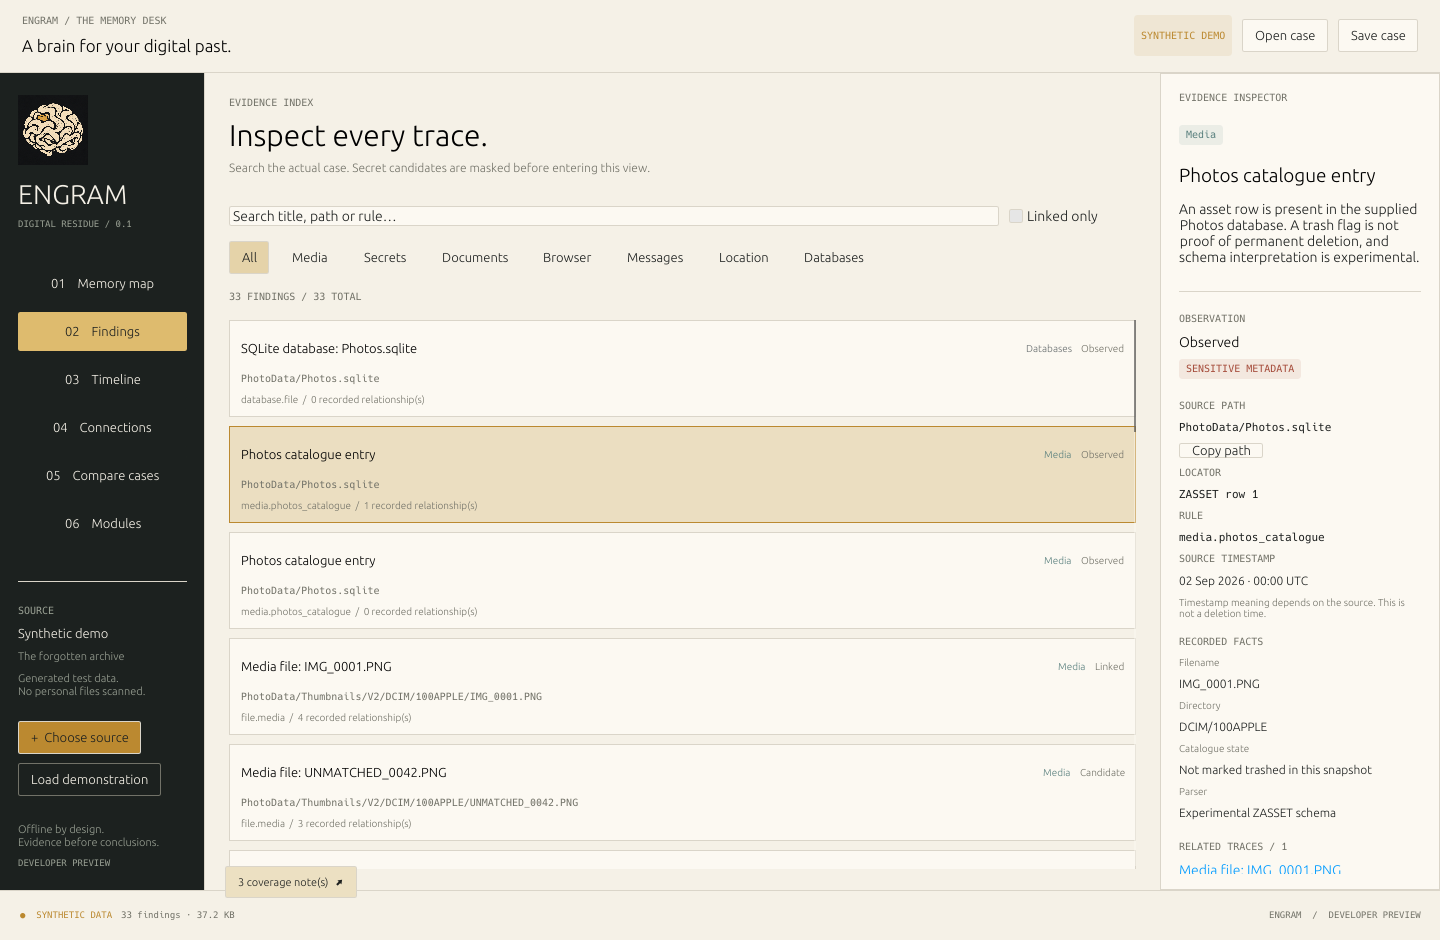
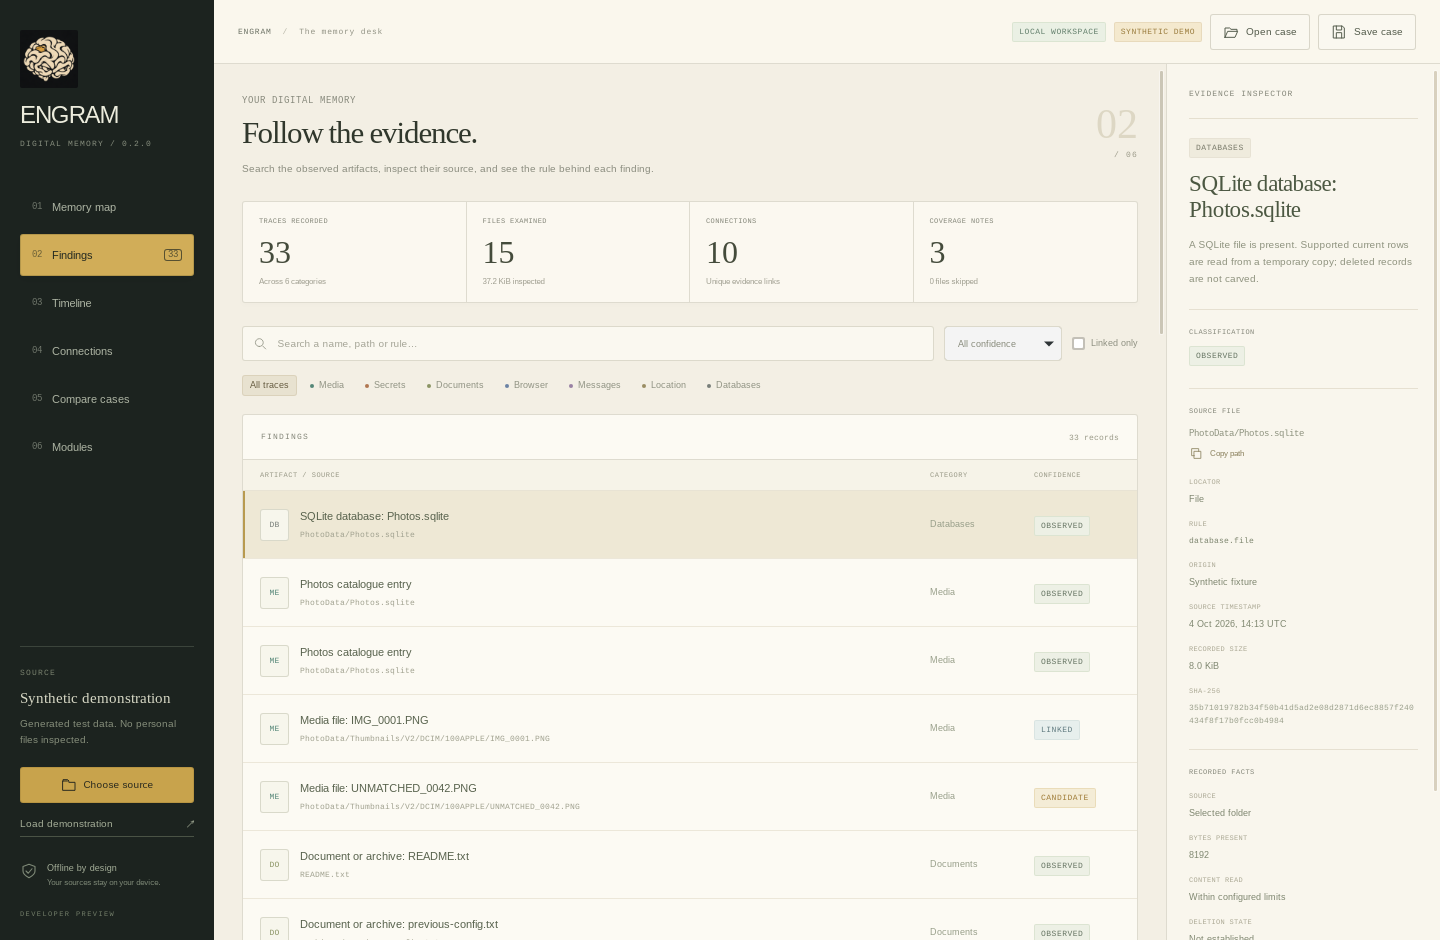
docs: publish verified native Tauri workspace captures

diff --git a/assets/screenshots/README.md b/assets/screenshots/README.md
@@ -1,14 +1,26 @@
 # Native application captures
 
-These PNGs were captured from the actual ENGRAM desktop executable on Linux using a software OpenGL display. They are not interface mockups.
+These unedited PNGs were captured from the actual ENGRAM 0.2 Tauri executable on Linux. The React/TypeScript interface runs inside the native WebKit window. Xvfb provides the display and WebKit uses its software-rendering fallback.
 
 The case is generated from synthetic fixture files and processed by the shared analysis engine. No personal directories or real phone backups were inspected. This sample records 33 findings from 15 files, with 10 recorded relationships.
 
-Source: [ce1cf183](https://github.com/Forem0/ENGRAM/commit/ce1cf1831fe43cd572bca9bfd67a389e274cdbb0).
-Capture: [successful native CI run](https://github.com/Forem0/ENGRAM/actions/runs/40565365606).
+Source: [a663762a](https://github.com/Forem0/ENGRAM/commit/a663762a283aa5ed578c0f1f0003c49b35ad158c).
+Capture: [successful native Tauri/IPC CI run](https://github.com/Forem0/ENGRAM/actions/runs/40575727550).
+
+Each launch uses `--demo --view VIEW --smoke-test`. The renderer loads a case through the native Rust command bridge and signals readiness after rendering. CI captures the visible native window before the guarded smoke process exits. The captures are 1440 × 940 pixels.
 
 - `workspace.png`: memory map and source evidence inspector.
 - `findings.png`: searchable evidence index.
 - `timeline.png`: source chronology with explicit timestamp limitations.
 - `connections.png`: recorded relationships between findings.
 
+SHA-256:
+
+```text
+40fb5b5012ee995e93d71555f23040401235b4499d49ab4635465d8deaaf42a8  workspace.png
+53ecf22837a2ca603d2d76cb8d55ddda1a1ed31b08190ca23082920eb3a5c017  findings.png
+45b459652d0bc323a3c685987d9c352f2373b279995b5e2544ed68694853e7f1  timeline.png
+3e37cfbd9531ddfacb8806629d1c547f6962edadb445fa0aa0b7d01220fcefa4  connections.png
+```
+
+The earlier egui captures remain available in the [0.1 release source](https://github.com/Forem0/ENGRAM/tree/v0.1.0-preview.1/assets/screenshots).
